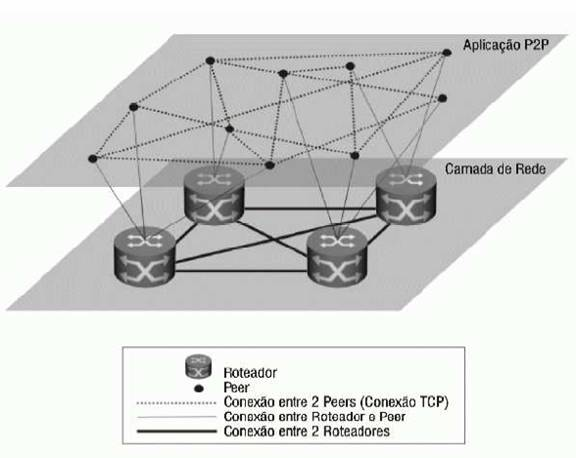
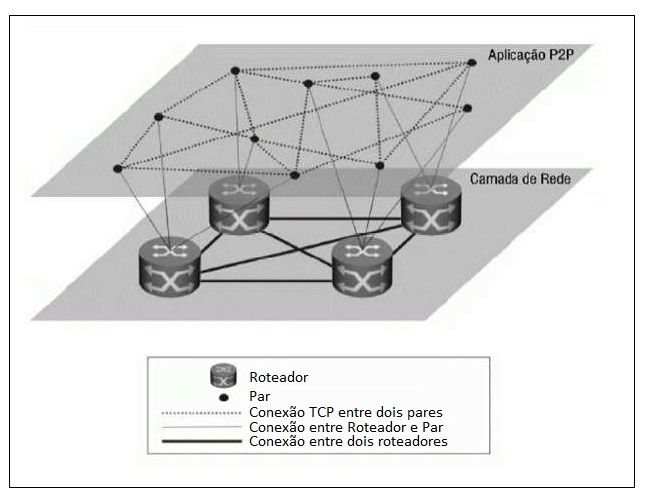
Finish reviewing Overlay Networks section

Changed region(s): [[0.0, 0.0306, 1.0, 0.9782], [0.1875, 0.1834, 0.2188, 0.214], [0.125, 0.5197, 0.1562, 0.5502]]

diff --git a/arquitetura.html b/arquitetura.html
@@ -96,14 +96,17 @@
 							<br>
 							<div class="4u 6u(3) centerImage size1"><span class=" image fit"><img src="images/scalability.png" alt="" /></span></div>
 
-							<h3>Redes Sobrepostas</h3>
-							<p class="paragraphText"><span class="spaceTab"></span>Sistemas p2p utilizam redes sobrepostas, que são criadas na camada de aplicação, sobre as redes físicas. Podemos entender redes sobrepostas como abstrações da rede física, é uma rede de computadores construída sobre outra rede. Os nós em uma rede de sobreposição são conectados por links virtuais/lógicos, por meio de muitos links físicos na rede subjacente. Redes sobrepostas são usadas para encontrar e reconhecer os pares e tornar a rede p2p independente da topologia da rede física. Por exemplo, quando existe uma conexão entre dois pares, diz-se que existe uma aresta entre eles, o gráfico contendo todos os pares ativos e as arestas entre eles compõem a rede de sobreposição, podemos então abstrair todos os dispositivos que conectam esses dois pares na rede física, e visualizar na rede sobreposta os pares conectados por um link virtual (aresta). </p>
-							<p class="paragraphText"><span class="spaceTab"></span>Redes sobrepostas são divididas em:</p>
-							<ul class="listItems">
-								<li>Redes Não Estruturadas</li>
-								<li>Redes Estruturadas</li>
-							</ul>
-							<a href="#" class="image text"><img src="images/Overlay_p2p.jpg" alt=""></a>
+							<h3>Arquitetura Par-a-Par e o Conceito de Rede Sobreposta</h3>
+							<p class="paragraphText"><span class="spaceTab"></span>Para continuarmos a estudar a arquitetura Par-a-Par, é necessário compreender o conceito de redes sobrepostas. Provenientes do inglês <i>"overlay networks"</i>, tais redes são
+							construídas em cima de outras já existentes, que suportam sua infraestrutura. Assim, um laço virtual entre dois nós de uma rede sobreposta pode corresponder, na verdade, a diversos outros laços da rede infraestrutural.</p>
+							<p class="paragraphText"><span class="spaceTab"></span>Este tipo de abstração é de grande relevância à arquitetura Par-a-Par por possibilitar que pares se encontrem e se reconheçam de forma independente da topologia física. Assim,
+							ao representarmos uma conexão entre dois pares de uma rede P2P utilizando apenas uma aresta, estamos capturando apenas as informações que de fato são relevantes para a topologia da rede Par-a-Par, sem ser necessário levar em conta as
+							rotas pelas quais os pacotes serão roteados. A imagem abaixo ilustra este conceito:</p>
+							
+							<div class="4u 6u(3) centerImage size1"><span class=" image fit"><img src="images/Overlay_p2p.jpg" alt="" /></span></div>
+							
+							<p class="paragraphText"><span class="spaceTab"></span>Assim, dedicamos duas das seções abaixo para tratar dos dois tipos de redes sobrepostas que são bastante encontrados na arquitetura Par-a-Par: 
+							as redes estruturadas e as não-estruturadas.</p>
 
 							<br>
 							<br>

diff --git a/questoes.html b/questoes.html
@@ -63,7 +63,7 @@
 							<h3>3. Qual a principal estratégia adotada pelo SETI@home para processoar sinais de vida inteligente fora do planeta Terra?</h3>
 							<p class="paragraphText"><span class="spaceTab"></span>Distribuir um programa gratuito para que qualquer pessoa com conexão à internet possa ajudar a processar os dados de rádio.</p>
 							
-							<h3>4. ...</h3>
+							<h3>4. Qual a vantagem do Roteamento de Documento por ID em comparação com a Busca por Inundação?</h3>
 							<p class="paragraphText"><span class="spaceTab"></span>...</p>
 
 							<h3>5. ...</h3>
